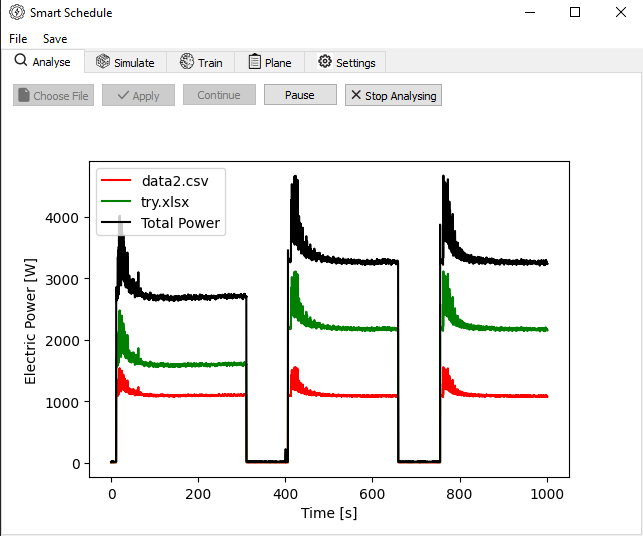
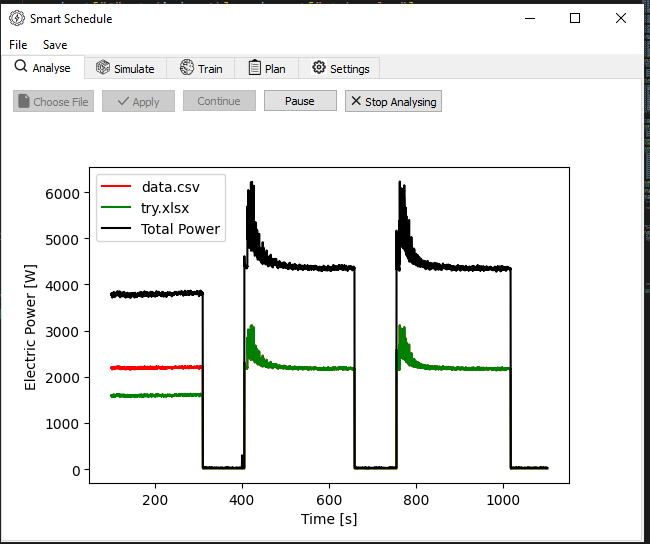
plan fix

Changed region(s): [[0.0, 0.0, 1.0, 1.0]]

diff --git a/README.md b/README.md
@@ -30,7 +30,7 @@ an operation or a new operation )
 - the max is a list holds all cycles of the operation max values.
 
 the main.py is the one file to run, that hold the GUI and calls the other functions depends on the user.
-  it has 4 mager functionalities Analyse (analyse the data and outputs the operations), Simulate (Simulate the mechine 'To Do'), Train ('To train the modal based on the result of Analyse'), Plane (wich give a scheduel based on the trained model)
+  it has 4 mager functionalities Analyse (analyse the data and outputs the operations), Simulate (Simulate the mechine 'To Do'), Train ('To train the modal based on the result of Analyse'), Plan (wich give a scheduel based on the trained model)
 
   The 'Settings' has for the moments only the settings for the Analyse funcion.
 
